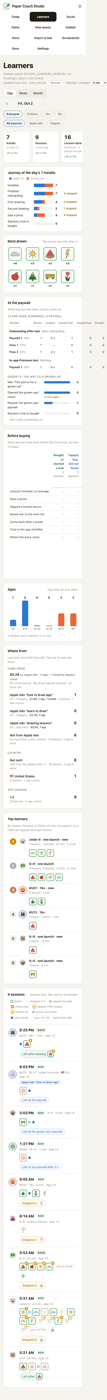
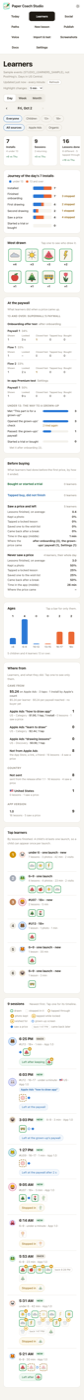
Studio Learners: fits a phone and a tablet
- Phone (under 640 px): the header's "Updated … · every minute", Refresh
  and Highlight changes wrap as whole pieces instead of running off the
  screen; At the paywall stacks each version as a block with its five
  numbers labeled beneath its name; Before buying becomes a card per group
  instead of four squeezed columns; an opened session's times keep one
  width, so the thread, marks and pictures line up; a week or a month is a
  row per day (a bar across, lessons and installs, the lesson drawn most).
- Tablet: Where from shows Came from, Country and App version side by side
  as far as they fit, instead of one long column.
- Everywhere: a timeline's time and picture never shrink, its words wrap.
- Checked with nothing wider than the window in the day (with a session
  open), week and month views at 360, 390, 600, 768, 1024 and 1440 px.

Tests: 956 web tests pass, build clean.

diff --git a/web/src/studio/learners.css b/web/src/studio/learners.css
@@ -975,6 +975,68 @@
   color: var(--accent);
 }
 
+.st-learners__before-cards {
+  display: none;
+  margin: 0;
+  padding: 0;
+  list-style: none;
+}
+
+.st-learners__before-card {
+  padding: 12px 0;
+  border-top: 1px solid var(--line);
+}
+
+.st-learners__before-card h3 {
+  display: flex;
+  flex-wrap: wrap;
+  align-items: baseline;
+  justify-content: space-between;
+  gap: 2px 10px;
+  margin: 0 0 6px;
+  color: var(--ink);
+  font-size: 14px;
+  font-weight: 700;
+}
+
+.st-learners__before-card h3 span {
+  color: var(--ink-faint);
+  font-size: 12px;
+  font-weight: 500;
+}
+
+.st-learners__before-card--bought h3 {
+  color: var(--good);
+}
+
+.st-learners__before-card--tried h3 {
+  color: var(--accent);
+}
+
+.st-learners__before-card dl {
+  display: grid;
+  gap: 3px;
+  margin: 0;
+}
+
+.st-learners__before-card dl div {
+  display: flex;
+  justify-content: space-between;
+  gap: 12px;
+  font-size: 13px;
+}
+
+.st-learners__before-card dt {
+  color: var(--ink-muted);
+}
+
+.st-learners__before-card dd {
+  margin: 0;
+  color: var(--ink);
+  font-weight: 600;
+  text-align: right;
+}
+
 .st-learners__before-empty {
   color: var(--ink-faint) !important;
   font-weight: 400 !important;
@@ -1444,9 +1506,20 @@
 }
 
 .st-learners__line-time {
+  flex: none;
   width: 92px;
   color: var(--ink-faint);
   font-variant-numeric: tabular-nums;
+  white-space: nowrap;
+}
+
+/* The picture keeps its size; the words take what is left, and wrap. */
+.st-learners__line > .st-learners__pic {
+  flex: none;
+}
+
+.st-learners__line-text {
+  min-width: 0;
 }
 
 .st-learners__line-mark {
@@ -1790,6 +1863,7 @@ a.st-learners__day-face:hover {
 .st-learners__day-bar span {
   display: block;
   width: 100%;
+  height: var(--share);
   border-radius: 4px 4px 0 0;
   background: var(--learners-children);
   opacity: 0.75;
@@ -1799,6 +1873,10 @@ a.st-learners__day-face:hover {
   font-size: 12px;
   line-height: 1.35;
   color: var(--ink-muted);
+}
+
+.st-learners__day-figures span {
+  display: block;
 }
 
 .st-learners__day-top {
@@ -1865,15 +1943,116 @@ a.st-learners__day-face:hover {
 @media (max-width: 1000px) {
   .st-learners__pair,
   .st-learners__pair--who,
-  .st-learners__where-columns,
   .st-learners__paywall-columns {
     grid-template-columns: minmax(0, 1fr);
+  }
+
+  /* Came from, Country and App version side by side as far as they fit. */
+  .st-learners__where-columns {
+    grid-template-columns: repeat(auto-fit, minmax(230px, 1fr));
   }
 }
 
 @media (max-width: 640px) {
   .st-learners {
     padding: 20px 14px 56px;
+  }
+
+  /* "Updated … · every minute", Refresh and "Highlight changes" on a line of their own, wrapping whole. */
+  .st-learners__freshness {
+    display: flex;
+    flex-wrap: wrap;
+    align-items: center;
+    gap: 6px 10px;
+    margin-top: 6px;
+  }
+
+  .st-learners__freshness button,
+  .st-learners__mark-for {
+    margin-left: 0;
+  }
+
+  /* At the paywall: each version a block, its numbers labeled in a row beneath its name. */
+  .st-learners__paywall-table thead {
+    display: none;
+  }
+
+  .st-learners__paywall-table,
+  .st-learners__paywall-table tbody,
+  .st-learners__paywall-table tr,
+  .st-learners__paywall-table th {
+    display: block;
+  }
+
+  .st-learners__paywall-table tbody tr:not(.st-learners__paywall-group) {
+    display: grid;
+    grid-template-columns: repeat(5, minmax(0, 1fr));
+    gap: 2px 6px;
+    padding: 8px 0;
+    border-top: 1px solid var(--line);
+  }
+
+  .st-learners__paywall-table tbody th[scope='row'] {
+    grid-column: 1 / -1;
+    padding: 0 0 2px;
+  }
+
+  .st-learners__paywall-table td {
+    display: flex;
+    flex-direction: column;
+    padding: 0;
+    text-align: left;
+    white-space: normal;
+  }
+
+  .st-learners__paywall-table td::before {
+    content: attr(data-label);
+    overflow: hidden;
+    color: var(--ink-faint);
+    font-size: 10.5px;
+    font-weight: 500;
+    white-space: nowrap;
+    text-overflow: ellipsis;
+  }
+
+  .st-learners__paywall-group th {
+    padding: 12px 0 4px;
+  }
+
+  /* Before buying: cards instead of four squeezed columns. */
+  .st-learners__before-table {
+    display: none;
+  }
+
+  .st-learners__before-cards {
+    display: block;
+  }
+
+  .st-learners__before {
+    overflow-x: visible;
+  }
+
+  .st-learners__facts {
+    padding: 0 8px 0 46px;
+  }
+
+  /* A narrower time column, and the thread moved with it (70 wide, then a 10 gap, then the mark's middle). */
+  .st-learners__timeline {
+    margin: 0 4px 12px;
+  }
+
+  .st-learners__line {
+    gap: 10px;
+    padding: 4px 0;
+  }
+
+  .st-learners__line-time {
+    width: 70px;
+    font-size: 12px;
+  }
+
+  .st-learners__line::before {
+    left: 85px;
   }
 
   /* The row scrolls here anyway, so the tiles keep room for their words. */
@@ -1898,8 +2077,42 @@ a.st-learners__day-face:hover {
     justify-self: start;
   }
 
+  /* A week or a month as rows: the day, a bar across, its numbers, its lesson drawn most. */
   .st-learners__days {
-    grid-template-columns: repeat(2, minmax(0, 1fr));
+    grid-template-columns: minmax(0, 1fr);
+    gap: 6px;
+  }
+
+  .st-learners__day-face {
+    grid-template-columns: 52px minmax(0, 1fr) 76px 40px;
+    grid-template-rows: none;
+    align-items: center;
+    gap: 10px;
+    padding: 8px 10px;
+  }
+
+  .st-learners__day-bar {
+    align-items: stretch;
+    height: 12px;
+    border-bottom: 0;
+    border-radius: 999px;
+    background: var(--surface-hover);
+    overflow: hidden;
+  }
+
+  .st-learners__day-bar span {
+    width: var(--share);
+    height: 100%;
+    border-radius: 999px;
+  }
+
+  .st-learners__day-figures {
+    font-size: 11px;
+  }
+
+  .st-learners__day-top .st-learners__pic {
+    transform: scale(0.8);
+    transform-origin: left center;
   }
 
   .st-learners__leader-face {

diff --git a/web/src/studio/LearnersView.tsx b/web/src/studio/LearnersView.tsx
@@ -392,9 +392,11 @@ function Freshness({
   const tooSoon = age !== null && age < REFRESH_FLOOR_MS
   return (
     <span className="st-learners__freshness">
-      {/* The minute's update runs quietly: only the first load says so. */}
-      {age === null ? (loading ? 'Updating…' : null) : `Updated ${ago}`}
-      {live ? <span className="st-learners__muted"> · every {every === DAY_REFRESH_MS ? 'minute' : '5 minutes'}</span> : null}{' '}
+      {/* The minute's update runs quietly: only the first load says so. One piece, so it wraps whole. */}
+      <span className="st-learners__fresh-when">
+        {age === null ? (loading ? 'Updating…' : null) : `Updated ${ago}`}
+        {live ? <span className="st-learners__muted"> · every {every === DAY_REFRESH_MS ? 'minute' : '5 minutes'}</span> : null}
+      </span>{' '}
       <button type="button" onClick={onRefresh} disabled={loading || tooSoon} title={tooSoon ? 'Just updated' : 'Ask PostHog now'}>
         Refresh
       </button>
@@ -726,6 +728,30 @@ function BeforeBuying({ groups }: { groups: BeforeGroup[] }) {
           ))}
         </tbody>
       </table>
+      {/* On a phone the four groups are cards, one under the other, instead of the table's columns. */}
+      <ul className="st-learners__before-cards">
+        {groups.map((group) => (
+          <li key={group.key} className={`st-learners__before-card st-learners__before-card--${group.key}`}>
+            <h3>
+              {BEFORE_WORDS[group.key]}
+              <span>
+                {group.learners} {group.learners === 1 ? 'learner' : 'learners'}
+                {group.key === 'never' && group.learners ? ', their whole day' : ''}
+              </span>
+            </h3>
+            {group.learners ? (
+              <dl>
+                {rows.map((row) => (
+                  <div key={row.label}>
+                    <dt>{row.label}</dt>
+                    <dd>{row.cell(group)}</dd>
+                  </div>
+                ))}
+              </dl>
+            ) : null}
+          </li>
+        ))}
+      </ul>
     </section>
   )
 }
@@ -799,17 +825,22 @@ function AtThePaywall({ paywalls, problem }: { paywalls: PaywallReport; problem:
                           {paywallWords(names, row)}
                           {version ? <span className="st-learners__paywall-share">{version.share}%</span> : null}
                         </th>
-                        <td>
+                        {/* data-label names each cell where the table stacks, on a phone. */}
+                        <td data-label="Shown">
                           {row.opens}
                           {row.learners !== row.opens ? <span className="st-learners__muted"> by {row.learners}</span> : null}
                         </td>
-                        <td>{row.medianLookMs === null ? '–' : spoken(row.medianLookMs)}</td>
-                        <td className={row.quickCloses ? 'st-learners__paywall-warn' : undefined}>{row.quickCloses}</td>
-                        <td>
+                        <td data-label="Looked">{row.medianLookMs === null ? '–' : spoken(row.medianLookMs)}</td>
+                        <td data-label="Closed fast" className={row.quickCloses ? 'st-learners__paywall-warn' : undefined}>
+                          {row.quickCloses}
+                        </td>
+                        <td data-label="Tapped buy">
                           {row.tappedBuy}
                           {row.cancelled ? <span className="st-learners__muted"> ({row.cancelled} cancelled)</span> : null}
                         </td>
-                        <td className={row.bought ? 'st-learners__paywall-good' : undefined}>{row.bought}</td>
+                        <td data-label="Bought" className={row.bought ? 'st-learners__paywall-good' : undefined}>
+                          {row.bought}
+                        </td>
                       </tr>
                     )
                   })}
@@ -1981,13 +2012,17 @@ function DayCell({
       <span className="st-learners__day-name">
         {weekday.format(date)} <strong>{date.getUTCDate()}</strong>
       </span>
+      {/* --share is the bar's height in the week's columns, and its length in a phone's rows. */}
       <span className="st-learners__day-bar" aria-hidden="true">
-        <span style={{ height: `${(day.lessons / most) * 100}%` }} />
+        <span style={{ '--share': `${(day.lessons / most) * 100}%` } as CSSProperties} />
       </span>
       <span className="st-learners__day-figures">
-        {day.lessons} {day.lessons === 1 ? 'lesson' : 'lessons'}
-        <br />
-        {day.installs} {day.installs === 1 ? 'install' : 'installs'}
+        <span>
+          {day.lessons} {day.lessons === 1 ? 'lesson' : 'lessons'}
+        </span>
+        <span>
+          {day.installs} {day.installs === 1 ? 'install' : 'installs'}
+        </span>
       </span>
       <span className="st-learners__day-top">
         {day.top ? <LessonPicture library={library} lesson={day.top} size="medium" /> : null}

diff --git a/docs/studio/learners-2026-10-02/README.md b/docs/studio/learners-2026-10-02/README.md
@@ -174,3 +174,10 @@ The day's numbers and its most drawn lessons, with "Every session ›" to the pa
 <img src="day-dark.png" width="900">
 
 <img src="phone.png" width="300">
+
+On a phone (under 640 px) the numbers scroll sideways in one row; the header's Refresh and Highlight changes wrap
+whole; At the paywall gives each version a block with its numbers labeled beneath its name; Before buying becomes a
+card per group; an opened session's times keep one width; and a week or a month is a row per day (a bar across, its
+numbers, its lesson drawn most). On a tablet, Where from shows its lists side by side as far as they fit.
+
+<img src="phone-paywalls.png" width="300"> <img src="phone-before.png" width="300"> <img src="phone-week.png" width="300">
